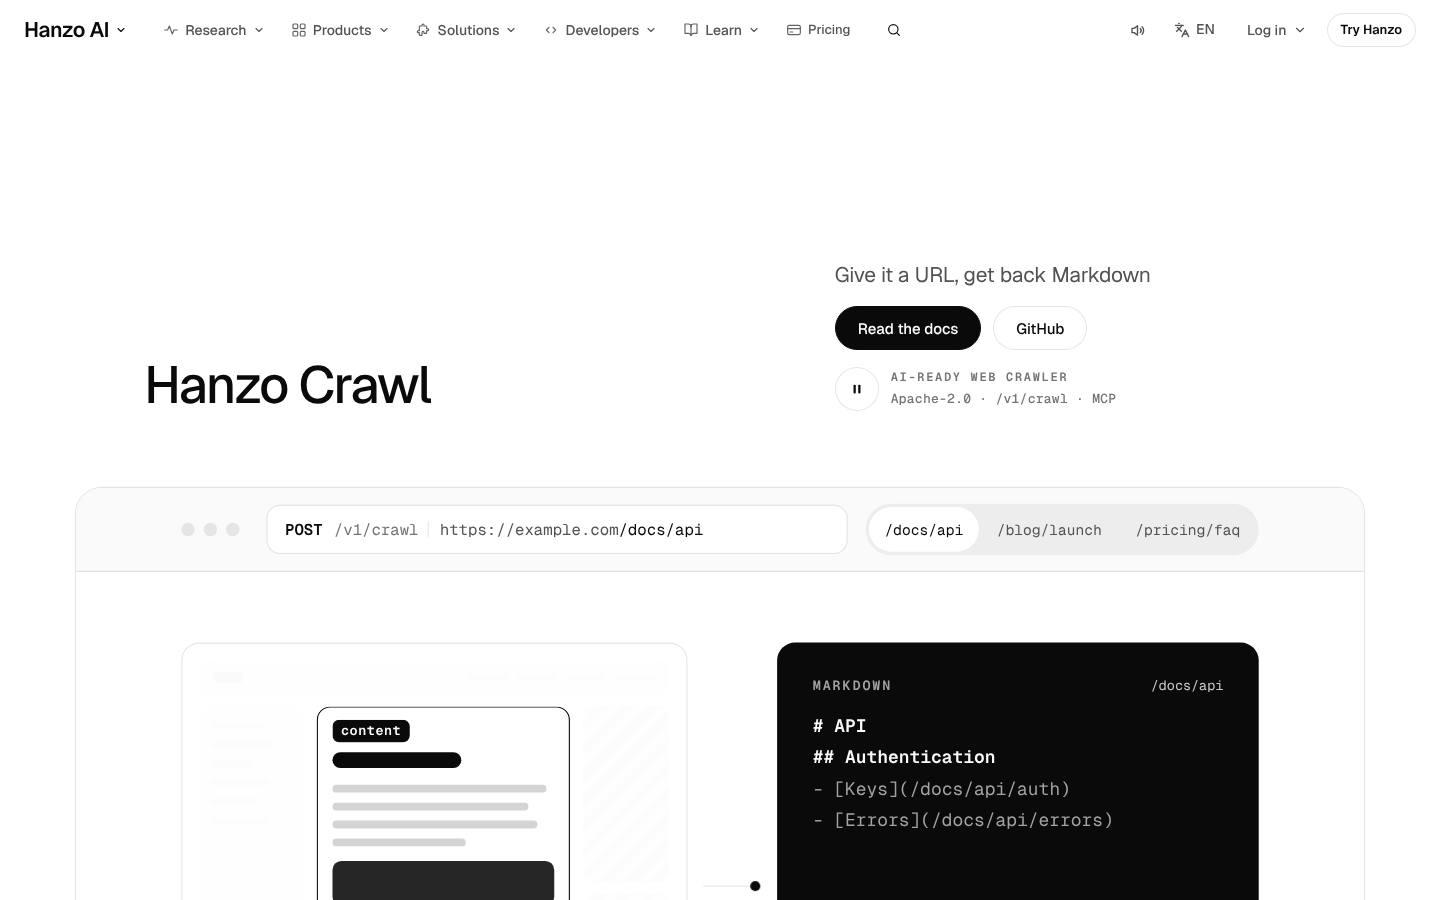
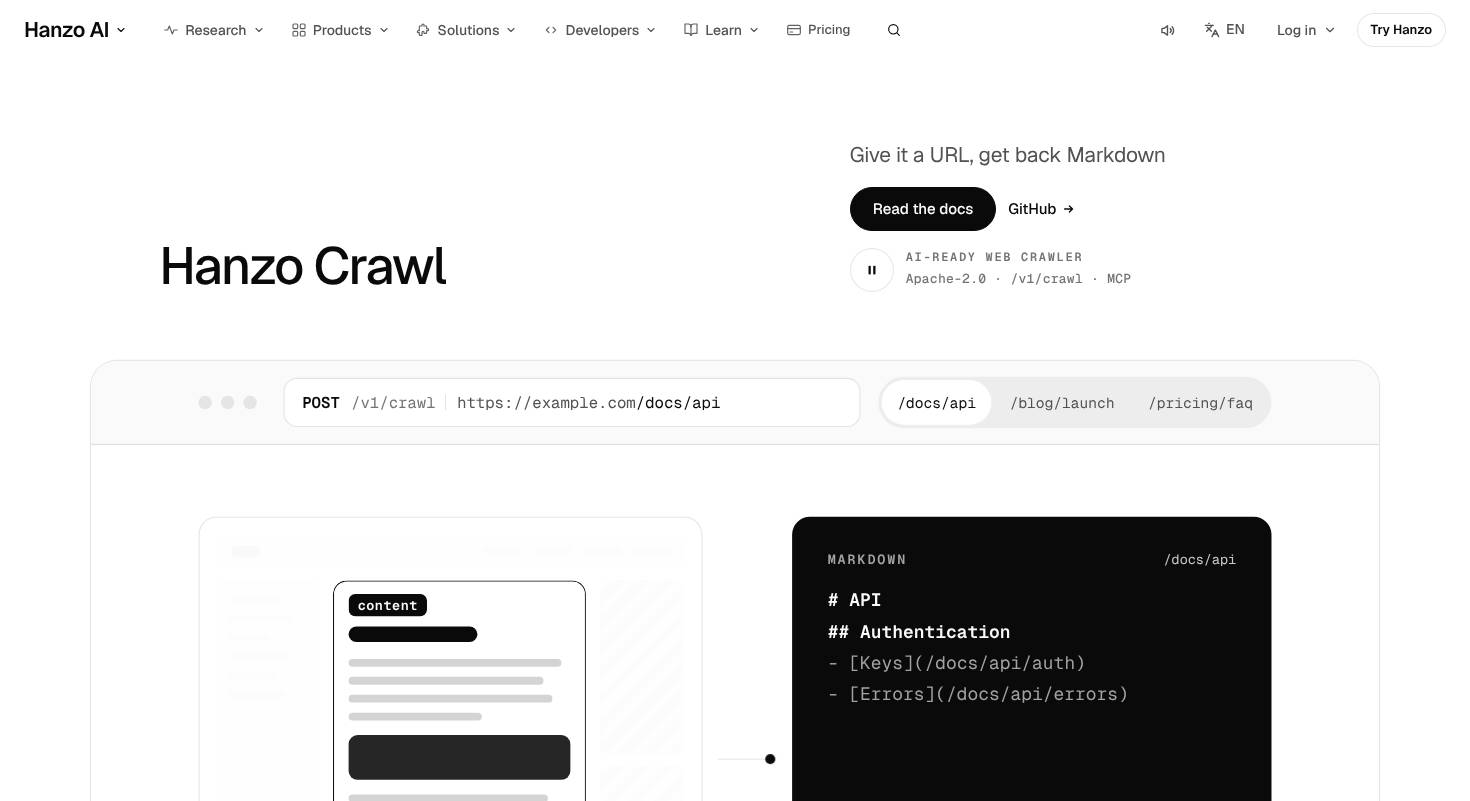
crawl: Ready — Markdown holds between pages, hero reader in first screen, readable step objects, four entrances, reduced motion final states
Claude-Session: https://claude.ai/code/session_01P5YBdx19ukLv4B41yE4M3v

diff --git a/components/pages/cloud/Crawl.jsx b/components/pages/cloud/Crawl.jsx
@@ -14,6 +14,8 @@
 //   URL; then the camera pulls back and the crawl spreads through the site link by link, a link toward 169.254.169.254
 //   refused, a 302 toward metadata cut at the hop, and the pages leaving over HTTP and MCP. One scroll value drives every
 //   part through CSS (no per-frame React); phones play the same scene once by itself while seen (pausable), or by tap.
+// Entrances (docs/MOTION-MAP.md, arrive.js arms them below the fold): slot-roll (the Reads words), tile-flip (the four
+//   Returns), pendulum (the plan picker), grow-from-point (the plan sheet, from where you last pressed).
 // Supporting: the Stage hero (the reader starts big and settles), the line-mask titles, the plan ring gliding to the plan
 //   whose allowance you chose, the graphite close opening to full width.
 // Motion kinds: arrival (title cut-in, the stage), idle (the reader crawling by itself), scroll (stage settle and the
@@ -30,9 +32,10 @@ import { useCalm } from '../../ui';
 import { scrollToY } from '../../../lib/scroll';
 import KeynoteStage, { useStagePause } from './SafeStage';
 import KeynoteSpec, { Fig } from '../../v2/KeynoteSpec';
-import KeynoteClose from '../../v2/KeynoteClose';
+import KeynoteClose from './SafeClose';
 import KeynoteLines from '../../v2/KeynoteLines';
 import { useWide } from '../../v2/KeynoteChapters';
+import { useArrivals } from './arrive';
 import './Crawl.css';
 
 const DOCS = 'https://docs.hanzo.ai/docs/openapi/crawl/';
@@ -86,6 +89,10 @@ function Reader() {
     return () => clearTimeout(t);
   }, [at, seen, calm, paused, mine]);
   const s = SAMPLES[at];
+  // the last page's Markdown stays on the panel until the new one starts writing (never a blank slab)
+  const last = useRef(at);
+  const [prev, setPrev] = useState(-1);
+  useEffect(() => { if (last.current !== at) { setPrev(last.current); last.current = at; } }, [at]);
   return (
     <div className="kn-obj cr-rd" ref={ref}>
       <div className="cr-rd-bar">
@@ -103,7 +110,10 @@ function Reader() {
         <div className="cr-rd-pipe"><i /></div>
         <div className="cr-rd-md">
           <p className="cr-rd-k">Markdown <span>{s.path}</span></p>
-          <pre>{s.md.map(([k, t], i) => <span key={i} className={'cr-ml ' + k} style={{ animationDelay: 1.15 + i * 0.15 + 's' }}>{t}</span>)}</pre>
+          <div className="cr-rd-mdb">
+            {prev >= 0 && prev !== at && <pre className="cr-rd-prev">{SAMPLES[prev].md.map(([k, t], i) => <span key={i} className={'cr-ml ' + k}>{t}</span>)}</pre>}
+            <pre>{s.md.map(([k, t], i) => <span key={i} className={'cr-ml ' + k} style={{ animationDelay: 1.15 + i * 0.15 + 's' }}>{t}</span>)}</pre>
+          </div>
           <dl className="cr-rd-meta" style={{ animationDelay: 1.3 + s.md.length * 0.15 + 's' }}>
             <div><dt>title</dt><dd>{s.title}</dd></div>
             <div><dt>canonical</dt><dd>example.com{s.path}</dd></div>
@@ -341,7 +351,7 @@ function Fit({ at, set }) {
   const [n, u] = STOPS[at];
   const [name, price, pts] = PLANS[at];
   return (
-    <div className="cr-fit">
+    <div className="cr-fit" data-enter="pendulum">
       <p className="kn-kick" id="cr-fit-k">Which plan covers it</p>
       <div className="cr-fit-out" aria-live="polite">
         <p className="cr-fit-fig"><span className="cr-fit-m"><b className="kn-fig" key={n}>{n}</b></span><span className="cr-fit-u">{u}</span></p>
@@ -378,7 +388,7 @@ function Plans() {
           </div>
           <Fit at={at} set={setAt} />
         </div>
-        <div className="cr-sheet">
+        <div className="cr-sheet" data-enter="grow">
           {PLANS.map(([n, pr, pts, cta, to], i) => (
             <div key={n} className="cr-plan" data-fit={at === i ? '' : undefined}>
               {at === i && <motion.span layoutId="cr-ring" className="cr-ring" transition={{ duration: 0.4, ease: MOVE }} aria-hidden="true" />}
@@ -470,8 +480,10 @@ function Send() {
 }
 
 export default function Crawl() {
+  const root = useRef(null);
+  useArrivals(root);
   return (
-    <main className="kn cr">
+    <main className="kn cr" ref={root}>
       <KeynoteStage
         kick="AI-Ready Web Crawler"
         title={['Hanzo Crawl']}
@@ -495,8 +507,8 @@ export default function Crawl() {
           ['Step 02', <Step k="x" t="Extract" d="The document is reduced to the subtree a reader would call the content, plus the title, description and canonical URL the page claims for itself. If the HTML alone is not enough, this is where a headless browser gets involved." />],
           ['Step 03', <Step k="r" t="Render" d="That subtree becomes Markdown with its structure intact — headings, lists, code and links, with relative URLs resolved against the page. It is the format a model reads best and a person can still diff." />],
           ['Two ways to call it', <><p className="cr-ways" aria-hidden="true"><span><b>HTTP</b>/v1/crawl</span><span><b>MCP</b></span></p><p>Over HTTP at /v1/crawl when your code is doing the asking, or over MCP when a model is.</p></>],
-          ['Reads', <ul className="cr-kinds">{['Static Sites', 'SPAs', 'Documentation', 'E-Commerce', 'Forums', 'REST API'].map((t) => <li key={t}>{t}</li>)}</ul>],
-          ['Returns', <div className="cr-figs">{[['JS', 'Full rendering'], ['Parallel', 'High throughput'], ['LLM', 'Structured extraction'], ['MD', 'Clean Markdown']].map(([a, b]) => <Fig key={a} n={a} u={b} />)}</div>],
+          ['Reads', <ul className="cr-kinds" data-enter="slot">{['Static Sites', 'SPAs', 'Documentation', 'E-Commerce', 'Forums', 'REST API'].map((t) => <li key={t}>{t}</li>)}</ul>],
+          ['Returns', <div className="cr-figs" data-enter="flip">{[['JS', 'Full rendering'], ['Parallel', 'High throughput'], ['LLM', 'Structured extraction'], ['MD', 'Clean Markdown']].map(([a, b]) => <Fig key={a} n={a} u={b} />)}</div>],
         ]}
       />
 

diff --git a/components/pages/cloud/Crawl.css b/components/pages/cloud/Crawl.css
@@ -510,3 +510,45 @@ html:not(.js) .cr-now { display: none !important; }
   .cr-now-t .kn-fig { font-size: 14px; color: #737373; }
   .cr .cr-figs .kn-fig { font-size: 26px; }
 }
+
+/* round 4 (8 Nov) */
+/* the reader: the last page's Markdown holds until the new lines start, then steps aside */
+.cr-rd-mdb { position: relative; flex: 1; display: flex; flex-direction: column; min-height: 0; }
+.cr-rd-mdb > pre:last-child { flex: 1; }
+.cr-rd-prev { position: absolute; inset: 0; margin: 0; font: 400 16px/1.75 var(--mono); white-space: pre-wrap; word-break: break-word; pointer-events: none; }
+.cr-rd .cr-rd-prev .cr-ml { animation: none; }
+.cr-rd-prev { animation: cr-prev 1.15s steps(1, end) both; }
+@keyframes cr-prev { to { visibility: hidden; } }
+/* the first screen: the reader's bar and its first lines sit inside 1470x801 */
+@media (min-width: 900px) {
+  .cr > .kns { padding-top: clamp(32px, calc(26svh - 128px), 120px); }
+  .cr > .kns .kns-g { row-gap: 36px; }
+  /* How it works: each step's object at a size you can read (its parts scale with it) */
+  .cr-step { grid-template-columns: minmax(0, 1fr) 302px; gap: 44px; }
+  .cr-sa { zoom: 1.4; }
+}
+@media (max-width: 899px) { .cr-rd-prev { font-size: 14px; } }
+@media (prefers-reduced-motion: reduce) {
+  .cr .kns-in, .cr .kns-obj-in, .cr .knl-t, .cr-rd-prev, .cr-sa *, .cr-sa-md span { animation: none !important; }
+  .cr-rd-prev { display: none; }
+}
+/* entrances (arrive.js sets data-arm below the fold, then data-in on arrival; JS off and reduced motion: final state) */
+/* slot-roll: each Reads word rolls up into its slot */
+.cr-kinds[data-arm]:not([data-in]) li { clip-path: inset(0 0 100% 0); transform: translateY(70%); }
+.cr-kinds[data-in] li { animation: cr-slot .6s cubic-bezier(.16, 1, .3, 1) both; animation-delay: calc(var(--n, 0) * 70ms); }
+.cr-kinds li:nth-child(2) { --n: 1; } .cr-kinds li:nth-child(3) { --n: 2; } .cr-kinds li:nth-child(4) { --n: 3; } .cr-kinds li:nth-child(5) { --n: 4; } .cr-kinds li:nth-child(6) { --n: 5; }
+@keyframes cr-slot { from { clip-path: inset(0 0 100% 0); transform: translateY(70%); } to { clip-path: inset(0); transform: none; } }
+/* tile-flip: the four Returns flip in on their top edge, one after another */
+.cr-figs[data-enter] { perspective: 900px; }
+.cr-figs[data-arm]:not([data-in]) > * { transform: rotateX(-90deg); opacity: 0; }
+.cr-figs[data-in] > * { transform-origin: 50% 0; animation: cr-flip .7s cubic-bezier(.16, 1, .3, 1) both; }
+.cr-figs[data-in] > :nth-child(2) { animation-delay: .09s; } .cr-figs[data-in] > :nth-child(3) { animation-delay: .18s; } .cr-figs[data-in] > :nth-child(4) { animation-delay: .27s; }
+@keyframes cr-flip { from { transform: rotateX(-90deg); opacity: 0; } 40% { opacity: 1; } to { transform: none; opacity: 1; } }
+/* pendulum: the plan picker swings in from its top edge and settles */
+.cr-fit[data-arm]:not([data-in]) { transform: rotate(9deg); opacity: 0; }
+.cr-fit[data-in] { transform-origin: 50% -40%; animation: cr-swing 1.2s both; }
+@keyframes cr-swing { 0% { transform: rotate(9deg); opacity: 0; animation-timing-function: cubic-bezier(.3, 0, .5, 1); } 20% { opacity: 1; } 40% { transform: rotate(-4deg); animation-timing-function: cubic-bezier(.4, 0, .5, 1); } 66% { transform: rotate(1.6deg); } 86% { transform: rotate(-.5deg); } 100% { transform: none; opacity: 1; } }
+/* grow-from-point: the plan sheet grows out of where you last pressed (or its centre) */
+.cr-sheet[data-arm]:not([data-in]) { transform: scale(.6); opacity: 0; }
+.cr-sheet[data-in] { transform-origin: var(--hz-ox, 50%) 0; animation: cr-grow .8s cubic-bezier(.16, 1, .3, 1) both; }
+@keyframes cr-grow { from { transform: scale(.6); opacity: 0; } 30% { opacity: 1; } to { transform: none; opacity: 1; } }

diff --git a/docs/review/crawl.md b/docs/review/crawl.md
@@ -1,4 +1,5 @@
 # /crawl — James-eye review
+Ready: 2026-11-08 the reader keeps the last Markdown until the next page writes (no blank slab), hero reader inside the first screen at 1470x801, How it works step objects at readable size (~300px) and looping while seen, four page-local entrances (slot-roll Reads, tile-flip Returns, pendulum plan picker, grow-from-point plan sheet), reduced motion: final states, 0 animations, 0 hydration errors (SafeClose); earlier round already fixed the phone duplicate, gaps, ask count, inert pills, GitHub hover, phone paths; taste OK, parity 108/108 + 14/14, unique OK, check 0 errors/0 overlaps/no h-scroll at 1470 and 375.
 
 Verdict: 7.5/10
 First complaint: "The stepping scene is great, then it turns into a document again. 'How it works' is fetch, extract, render all over again as rows of text with little grey stamps, nothing moves, and there's a big empty white gap before and after it. And on my phone the same paragraph shows up twice."
